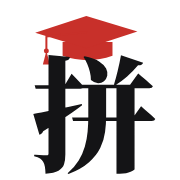
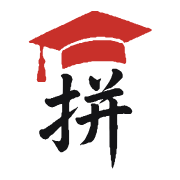
Логотип по исходной картинке (векторная трассировка, без надписей), иконки обновлены
Claude-Session: https://claude.ai/code/session_01PpQs3BDusWq1VjRRNaC1nL

Changed region(s): [[0.1667, 0.0556, 0.8611, 0.9722], [0.3333, 0.1111, 0.4167, 0.1389]]

diff --git a/index.html b/index.html
@@ -67,7 +67,7 @@ body::before{content:"";position:fixed;inset:0 0 auto;height:env(safe-area-inset
 .draft b{color:var(--ph-bg)}
 nav.top{display:flex;align-items:center;justify-content:space-between;gap:16px;padding-block:22px}
 .logo{display:flex;align-items:center;gap:12px;font-family:var(--f-display);font-weight:800;font-size:1.1rem;color:var(--on-jade);text-decoration:none}
-.logo svg{display:block;height:56px;width:auto}
+.logo img{display:block;height:58px;width:auto}
 .logo .ph{background:transparent;color:var(--on-jade);outline-color:var(--on-jade-muted)}
 nav.top ul{display:flex;gap:6px;list-style:none;margin:0;padding:6px;border-radius:999px;background:var(--jade-2)}
 nav.top ul a{display:block;padding:8px 16px;border-radius:999px;color:var(--on-jade);text-decoration:none;font-size:.92rem}
@@ -215,16 +215,7 @@ footer .wrap{display:flex;justify-content:space-between;gap:12px;flex-wrap:wrap}
   <div class="wrap">
     <div class="draft">Черновик: <b>жёлтым пунктиром</b> отмечено то, что нужно заменить на реальные данные.</div>
     <nav class="top">
-      <a class="logo" href="#top" aria-label="pinyinme.ru, на главную"><svg xmlns="http://www.w3.org/2000/svg" viewBox="-20 0 1040 1330" aria-hidden="true">
-  <g fill="var(--tang)">
-    <path d="M250 250 L250 360 Q450 430 650 360 L650 250 Z"/>
-    <path d="M30 175 L440 40 L850 165 L440 300 Z"/>
-    <path d="M440 170 L120 205 L120 330" fill="none" stroke="var(--tang)" stroke-width="16" stroke-linecap="round" stroke-linejoin="round"/>
-    <path d="M120 320 L92 430 L148 430 Z"/>
-    <circle cx="120" cy="322" r="20"/>
-  </g>
-  <path fill="currentColor" transform="translate(0 1210) scale(1 -1)" d="M363 618H791L856 708Q856 708 868.0 698.0Q880 688 899.0 672.5Q918 657 938.0 639.0Q958 621 974 606Q970 590 946 590H371ZM326 356H815L879 446Q879 446 890.5 436.0Q902 426 920.0 410.5Q938 395 957.5 377.0Q977 359 993 344Q989 328 965 328H334ZM682 615H827V-59Q826 -65 795.5 -80.0Q765 -95 709 -95H682ZM456 615H599V364Q599 303 590.5 238.5Q582 174 552.5 112.5Q523 51 462.0 -3.0Q401 -57 297 -98L290 -91Q346 -43 379.0 11.0Q412 65 428.5 123.0Q445 181 450.5 241.5Q456 302 456 363ZM426 846Q501 831 542.5 804.5Q584 778 599.0 748.0Q614 718 608.0 691.0Q602 664 582.0 647.0Q562 630 534.0 630.5Q506 631 477 656Q477 689 468.5 722.5Q460 756 447.0 786.5Q434 817 418 841ZM718 855 896 794Q893 784 882.5 778.5Q872 773 855 774Q815 726 767.5 684.5Q720 643 673 614L662 621Q676 664 691.5 728.5Q707 793 718 855ZM26 615H267L322 706Q322 706 339.5 688.5Q357 671 380.0 647.0Q403 623 420 603Q416 587 393 587H34ZM137 856 309 840Q308 829 299.5 821.5Q291 814 272 811V58Q272 12 261.5 -20.0Q251 -52 217.0 -70.5Q183 -89 113 -95Q112 -63 108.0 -39.0Q104 -15 94 1Q85 16 69.5 26.5Q54 37 22 44V57Q22 57 34.0 56.0Q46 55 63.0 54.5Q80 54 96.0 53.0Q112 52 119 52Q130 52 133.5 55.5Q137 59 137 67ZM15 384Q47 389 108.5 401.0Q170 413 247.5 429.0Q325 445 404 463L406 454Q360 418 282.5 365.0Q205 312 94 246Q90 236 82.0 228.0Q74 220 64 218Z"/>
-</svg></a>
+      <a class="logo" href="#top" aria-label="pinyinme.ru, на главную"><img src="logo-light.svg" alt="" width="46" height="58"></a>
       <ul>
         <li><a href="#goals">Направления</a></li>
         <li><a href="#prices">Цены</a></li>
